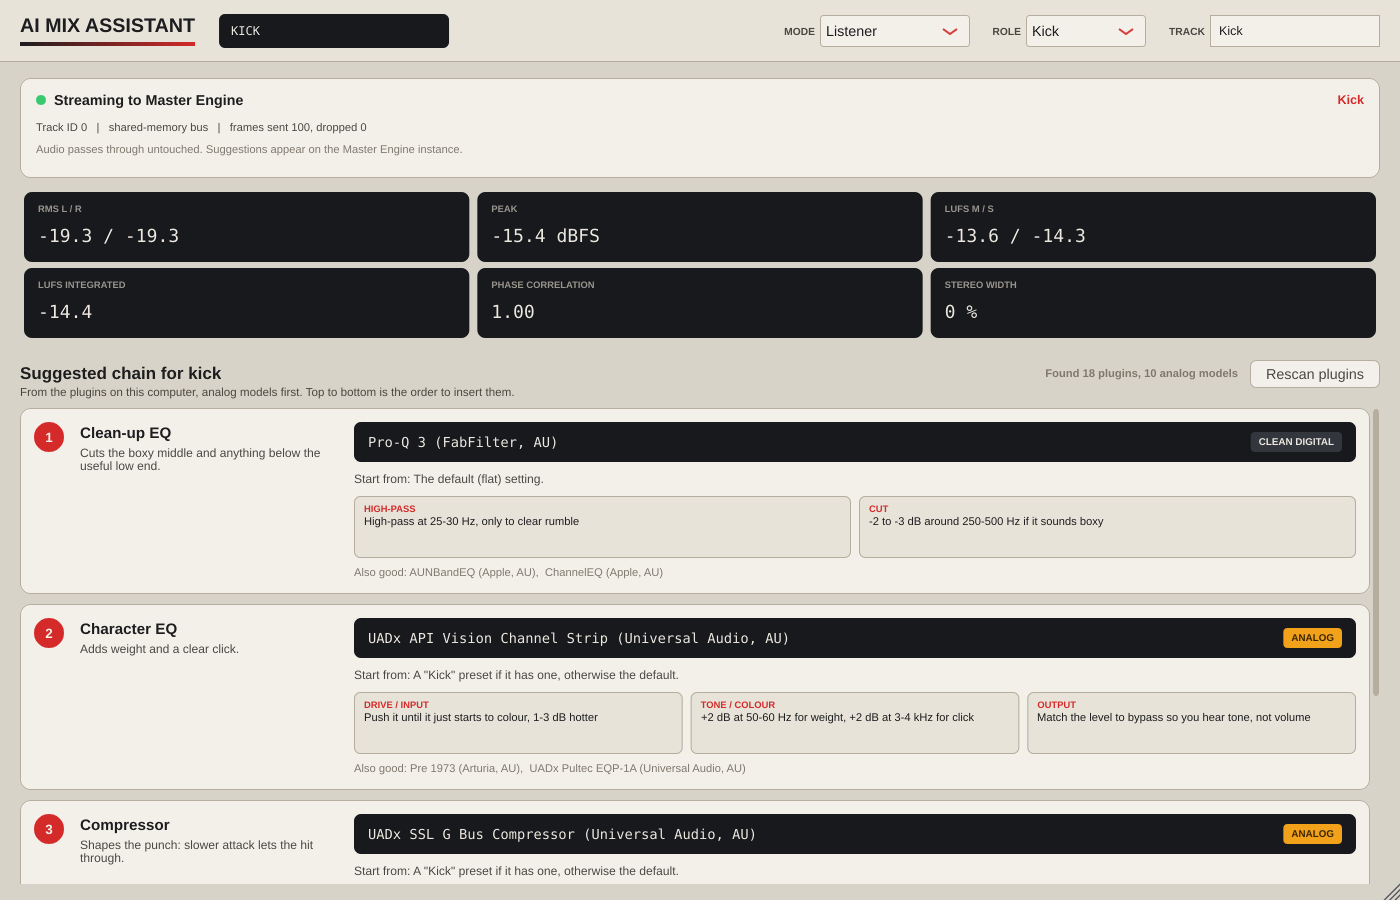
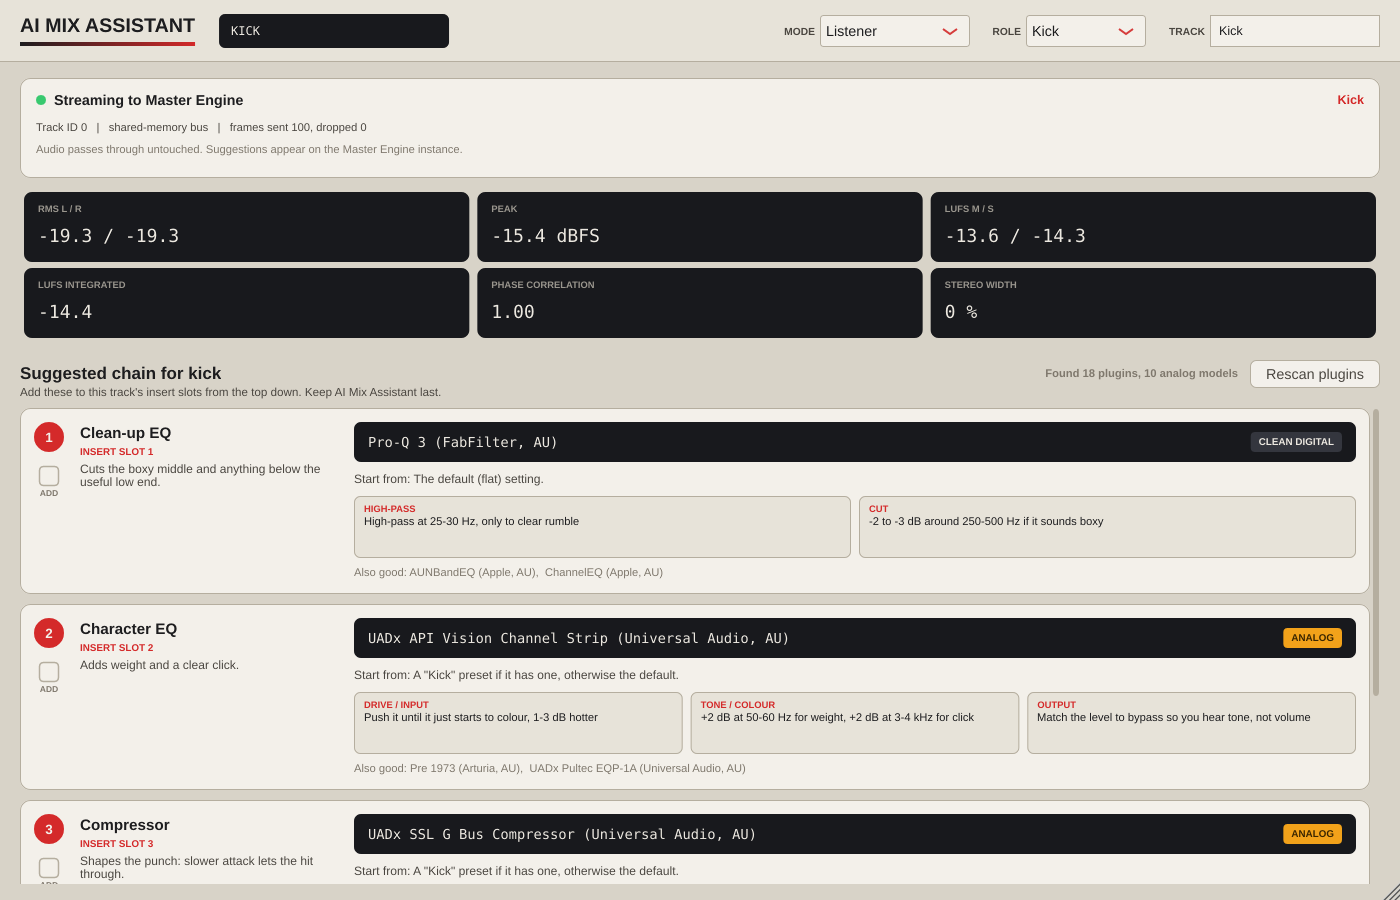
Match the chain to the DAW's mixer slots and let users tick them off
The chain list now uses the host's own words (FL Studio Mixer insert
slots, Studio One Inserts, Logic Audio FX slots), says how to add the
plugins there, and has a tick box per slot. Ticks are saved with the
session and reset when the suggestion for a slot changes.

Claude-Session: https://claude.ai/code/session_01P1DZqxhkgcfwsjooqqKS6t

diff --git a/plugin/ui/ChainPanel.cpp b/plugin/ui/ChainPanel.cpp
@@ -107,7 +107,8 @@ void ChainPanel::paint (juce::Graphics& g)
     g.drawText (title, header.withWidth (titleW + 4.0f).withTrimmedBottom (14.0f), juce::Justification::centredLeft);
     g.setColour (colours::textDim);
     g.setFont (font (13.0f));
-    g.drawText ("From the plugins on this computer, analog models first. Top to bottom is the order to insert them.",
+    g.drawText (daw.howTo.isNotEmpty() ? daw.howTo
+                                       : juce::String ("From the plugins on this computer, analog models first. Top to bottom is the order to insert them."),
                 header.withTrimmedTop (24.0f).withTrimmedRight ((float) rescanButton.getWidth() + 230.0f),
                 juce::Justification::centredLeft, true);
 
@@ -137,10 +138,69 @@ void ChainPanel::resized()
 }
 
 //==============================================================================
+ChainPanel::Daw ChainPanel::dawFor (const juce::String& host)
+{
+    Daw d;
+    if (host.containsIgnoreCase ("FL Studio") || host.containsIgnoreCase ("Fruity"))
+        d = { "Mixer insert slot", "In the Mixer (F9), load these into this track's insert slots from the top down. Keep AI Mix Assistant in the last slot." };
+    else if (host.containsIgnoreCase ("Studio One"))
+        d = { "Insert", "Open this channel's Inserts in the Console (F3) and add these in order. Keep AI Mix Assistant at the bottom." };
+    else if (host.containsIgnoreCase ("Logic") || host.containsIgnoreCase ("GarageBand"))
+        d = { "Audio FX slot", "Click the empty Audio FX slots on this channel strip from the top down. Keep AI Mix Assistant in the lowest slot." };
+    else
+        d = { "Insert slot", "Add these to this track's insert slots from the top down. Keep AI Mix Assistant last." };
+    return d;
+}
+
+juce::Rectangle<float> ChainPanel::Rows::tickBox (size_t index) const
+{
+    float y = 0.0f;
+    const float width = (float) getWidth();
+    for (size_t i = 0; i < owner.rec.slots.size(); ++i)
+    {
+        const float h = rowHeight (owner.rec.slots[i], width);
+        if (i == index)
+            return { 14.0f + 5.0f, y + 14.0f + 44.0f, 20.0f, 20.0f };
+        y += h + kRowGap;
+    }
+    return {};
+}
+
+void ChainPanel::Rows::mouseMove (const juce::MouseEvent& e)
+{
+    bool over = false;
+    for (size_t i = 0; i < owner.rec.slots.size(); ++i)
+        over |= owner.rec.slots[i].pick >= 0 && tickBox (i).expanded (6.0f).contains (e.position);
+    setMouseCursor (over ? juce::MouseCursor::PointingHandCursor : juce::MouseCursor::NormalCursor);
+}
+
+void ChainPanel::Rows::mouseUp (const juce::MouseEvent& e)
+{
+    for (size_t i = 0; i < owner.rec.slots.size(); ++i)
+    {
+        const auto& s = owner.rec.slots[i];
+        if (s.pick < 0 || ! tickBox (i).expanded (6.0f).contains (e.position))
+            continue;
+        const auto key = addedKey (s);
+        // One tick per slot: drop any older tick for a different plugin.
+        for (int k = owner.addedKeys.size(); --k >= 0;)
+            if (owner.addedKeys[k].startsWith (juce::String (s.id) + "=") && owner.addedKeys[k] != key)
+                owner.addedKeys.remove (k);
+        if (owner.addedKeys.contains (key))
+            owner.addedKeys.removeString (key);
+        else
+            owner.addedKeys.add (key);
+        repaint();
+        if (owner.onAddedChanged)
+            owner.onAddedChanged (owner.addedKeys);
+        return;
+    }
+}
+
 float ChainPanel::Rows::rowHeight (const ChainSlot& s, float width) const
 {
     const float leftW = leftColumnWidth (width) - kNumberW;
-    const float left = 24.0f + textHeight (juce::String (s.why), font (13.5f), leftW - 12.0f);
+    const float left = juce::jmax (70.0f, 42.0f + textHeight (juce::String (s.why), font (13.5f), leftW - 12.0f));
     float right = 40.0f;   // plugin well
     if (s.pick >= 0)
     {
@@ -209,7 +269,35 @@ void ChainPanel::Rows::paint (juce::Graphics& g)
             g.drawText ("OPTIONAL", juce::Rectangle<float> (left.getX() + lw + 10.0f, left.getY() - 22.0f, 80.0f, 22.0f),
                         juce::Justification::centredLeft);
         }
+        g.setColour (colours::accent);
+        g.setFont (font (11.0f, true));
+        g.drawText (owner.daw.slotWord.toUpperCase() + " " + juce::String (number - 1), left.removeFromTop (16.0f),
+                    juce::Justification::centredLeft, true);
         drawWrapped (g, juce::String (s.why), font (13.5f), colours::textDim, left.withTrimmedTop (2.0f).withTrimmedRight (12.0f));
+
+        // Tick box: "I've added this one".
+        if (s.pick >= 0)
+        {
+            const bool added = owner.addedKeys.contains (addedKey (s));
+            auto box = tickBox ((size_t) (number - 2));
+            g.setColour (added ? colours::meterGreen : colours::panelRaised);
+            g.fillRoundedRectangle (box, 4.0f);
+            g.setColour (added ? colours::meterGreen.darker (0.3f) : colours::outline);
+            g.drawRoundedRectangle (box.reduced (0.5f), 4.0f, 1.5f);
+            if (added)
+            {
+                juce::Path tick;
+                tick.startNewSubPath (box.getX() + 4.5f, box.getCentreY());
+                tick.lineTo (box.getX() + 8.5f, box.getBottom() - 5.0f);
+                tick.lineTo (box.getRight() - 4.0f, box.getY() + 5.0f);
+                g.setColour (juce::Colours::white);
+                g.strokePath (tick, juce::PathStrokeType (2.2f));
+            }
+            g.setColour (added ? colours::meterGreen.darker (0.4f) : colours::textFaint);
+            g.setFont (font (9.5f, true));
+            g.drawText (added ? "ADDED" : "ADD", box.translated (-12.0f, 21.0f).withWidth (44.0f).withHeight (12.0f),
+                        juce::Justification::centred);
+        }
 
         // Which plugin: a dark display with the name and an analog badge.
         auto right = inner;

diff --git a/tools/PluginChecks.cpp b/tools/PluginChecks.cpp
@@ -150,6 +150,7 @@ void checkState()
         setParam (p, "mode", 1.0f);
         setParam (p, "role", p.parameters.getParameter ("role")->convertTo0to1 (5.0f));   // Bass
         p.setTrackNameOverride ("Bass DI");
+        p.setChainAdded ({ "cleanup_eq=Pro-Q 3 (FabFilter, AU)", "compressor=UADx LA-2A Gray (Universal Audio, AU)" });
         p.getStateInformation (state);
     }
     AIMixProcessor restored;
@@ -157,6 +158,8 @@ void checkState()
     check (restored.getMode() == AIMixProcessor::Mode::Master, "state restores mode");
     check (juce::roundToInt (restored.parameters.getRawParameterValue ("role")->load()) == 5, "state restores role");
     check (restored.getTrackNameOverride() == "Bass DI", "state restores track name");
+    check (restored.getChainAdded().size() == 2 && restored.getChainAdded()[1].startsWith ("compressor="),
+           "state restores which chain plugins were ticked as added");
 
     restored.setStateInformation ("garbage", 7);
     check (true, "garbage state is ignored without crashing");
@@ -351,9 +354,13 @@ std::shared_ptr<const aimix::MixReport> checkMultiInstance (const juce::File& ou
 
         setParam (kick, "role", kick.parameters.getParameter ("role")->convertTo0to1 ((float) aimix::TrackRole::Vocal));
         kick.setTrackNameOverride ("Lead Vox");
-        ed->refresh();
         for (int i = 0; i < 15; ++i)
             ed->refresh();
+        auto& panel = ed->getListenerView().getChainPanel();
+        panel.setDaw (aimix::ui::ChainPanel::dawFor ("FL Studio"));
+        const auto& vocal = panel.getRecommendation();
+        if (vocal.slots.size() > 1)
+            panel.setAdded ({ aimix::ui::ChainPanel::addedKey (vocal.slots[0]), aimix::ui::ChainPanel::addedKey (vocal.slots[1]) });
         editor->setSize (1400, 1300);
         savePng (*editor, outDir.getChildFile ("ui_listener_vocal_chain.png"));
         check (ed->getListenerView().getChainPanel().getRecommendation().role == aimix::TrackRole::Vocal,

diff --git a/plugin/ui/ChainPanel.h b/plugin/ui/ChainPanel.h
@@ -22,6 +22,22 @@ public:
 
     std::function<void()> onRescan;
 
+    // How this DAW names its insert slots, and how to add plugins to them.
+    struct Daw
+    {
+        juce::String slotWord = "Insert slot";   // "Mixer insert slot", "Audio FX slot"...
+        juce::String howTo;                      // one line shown above the list
+    };
+    void setDaw (const Daw& d) { daw = d; repaint(); rows.repaint(); }
+    static Daw dawFor (const juce::String& hostName);   // "FL Studio", "Studio One", "Logic"...
+
+    // Slots the user has ticked as added, as "slotId=plugin name". A tick is
+    // dropped when the suggestion for that slot changes.
+    void setAdded (const juce::StringArray& added) { addedKeys = added; rows.repaint(); }
+    const juce::StringArray& getAdded() const noexcept { return addedKeys; }
+    std::function<void (const juce::StringArray&)> onAddedChanged;
+    static juce::String addedKey (const ChainSlot& s) { return juce::String (s.id) + "=" + juce::String (s.pickName); }
+
     void paint (juce::Graphics&) override;
     void resized() override;
 
@@ -34,8 +50,11 @@ private:
         explicit Rows (ChainPanel& p) : owner (p) {}
         int heightFor (int width) const;
         void paint (juce::Graphics&) override;
+        void mouseUp (const juce::MouseEvent&) override;
+        void mouseMove (const juce::MouseEvent&) override;
 
     private:
+        juce::Rectangle<float> tickBox (size_t index) const;
         float rowHeight (const ChainSlot& s, float width) const;
         ChainPanel& owner;
     };
@@ -48,6 +67,8 @@ private:
     bool hasContext = false;
     ChainRecommendation rec;
     juce::String status;
+    Daw daw;
+    juce::StringArray addedKeys;
     bool scanning = false;
 
     juce::TextButton rescanButton { "Rescan plugins" };

diff --git a/plugin/PluginProcessor.h b/plugin/PluginProcessor.h
@@ -73,6 +73,10 @@ public:
     void setTrackNameOverride (const juce::String& name);
     juce::String getTrackNameOverride() const { return trackNameOverride; }
 
+    // Chain slots the user ticked as added in their DAW; saved with the session.
+    juce::StringArray getChainAdded() const { return chainAdded; }
+    void setChainAdded (const juce::StringArray& added) { chainAdded = added; }
+
     // Make the mode/engine state follow the parameters immediately (normally
     // done by a 4 Hz timer). Used by the editor and by the headless checks.
     void syncModeNow() { timerCallback(); }
@@ -94,6 +98,7 @@ private:
     std::atomic<float>* roleParam = nullptr;
 
     juce::String trackNameOverride, hostTrackName;
+    juce::StringArray chainAdded;
 
     JUCE_DECLARE_WEAK_REFERENCEABLE (AIMixProcessor)
     JUCE_DECLARE_NON_COPYABLE_WITH_LEAK_DETECTOR (AIMixProcessor)

diff --git a/plugin/PluginProcessor.cpp b/plugin/PluginProcessor.cpp
@@ -102,6 +102,7 @@ void AIMixProcessor::getStateInformation (juce::MemoryBlock& destData)
 {
     auto state = parameters.copyState();
     state.setProperty ("trackName", trackNameOverride, nullptr);
+    state.setProperty ("chainAdded", chainAdded.joinIntoString ("\n"), nullptr);
     if (auto xml = state.createXml())
         copyXmlToBinary (*xml, destData);
 }
@@ -113,6 +114,8 @@ void AIMixProcessor::setStateInformation (const void* data, int sizeInBytes)
         {
             auto state = juce::ValueTree::fromXml (*xml);
             trackNameOverride = state.getProperty ("trackName").toString();
+            chainAdded = juce::StringArray::fromLines (state.getProperty ("chainAdded").toString());
+            chainAdded.removeEmptyStrings();
             parameters.replaceState (state);
             pushIdentityToAnalyzer();
         }

diff --git a/plugin/PluginEditor.cpp b/plugin/PluginEditor.cpp
@@ -50,6 +50,13 @@ AIMixEditor::AIMixEditor (AIMixProcessor& p) : AudioProcessorEditor (&p), proces
     masterView.onDismiss = [this] (const std::string& key) { processor.dismissSuggestion (key); };
     listenerView.getChainPanel().onRescan = masterView.getChainPanel().onRescan = [this] { library->rescan(); pushLibrary(); };
     library->changes.addChangeListener (this);
+    const auto daw = ChainPanel::dawFor (juce::PluginHostType().getHostDescription());
+    for (auto* panel : { &listenerView.getChainPanel(), &masterView.getChainPanel() })
+    {
+        panel->setDaw (daw);
+        panel->setAdded (processor.getChainAdded());
+        panel->onAddedChanged = [this] (const juce::StringArray& added) { processor.setChainAdded (added); };
+    }
     pushLibrary();
 
     setResizable (true, true);
